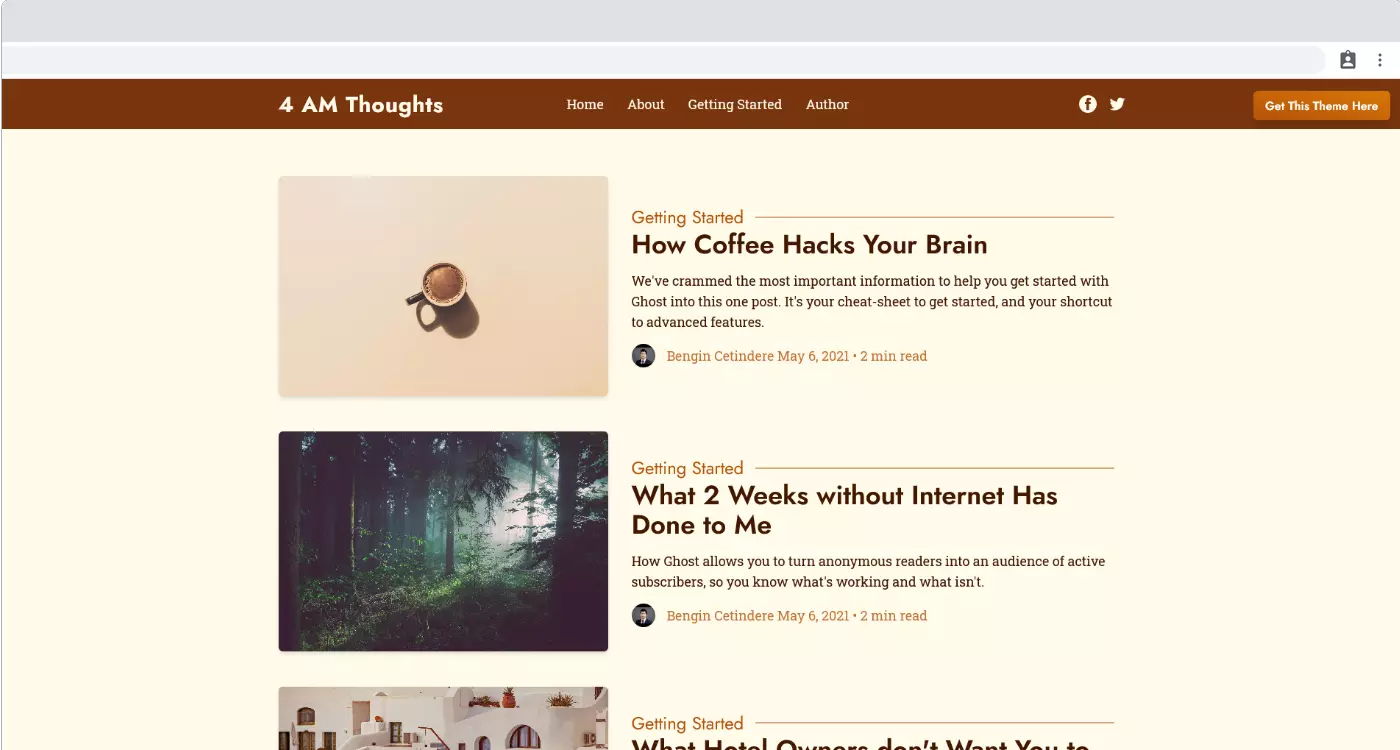
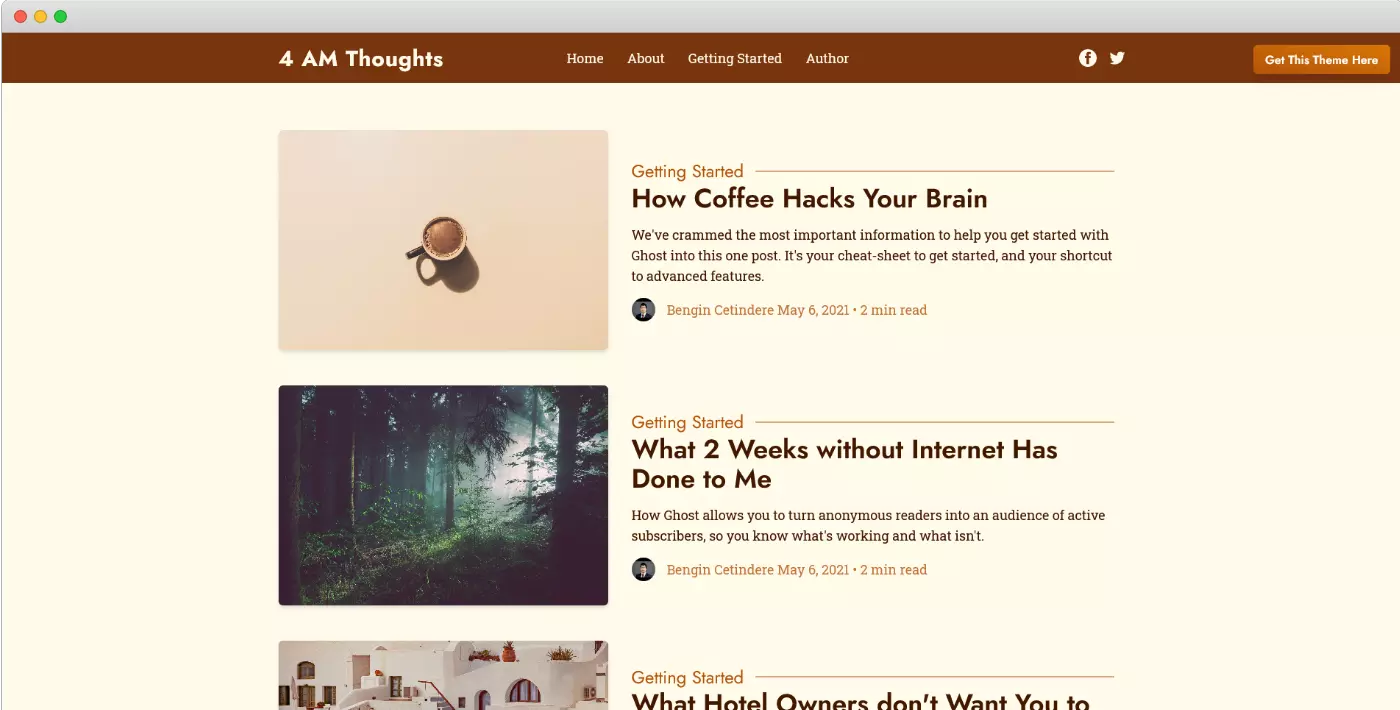
fix: fix font

Changed region(s): [[0.0, 0.0, 1.0, 0.8676], [0.1843, 0.8986, 0.7986, 1.0], [0.2764, 0.3099, 0.3686, 0.4648]]

diff --git a/styles/globals.css b/styles/globals.css
@@ -1,4 +1,4 @@
-@import url('https://fonts.googleapis.com/css2?family=IBM+Plex+Sans&display=swap');
+@import url('https://fonts.googleapis.com/css2?family=Inter:wght@400;700&display=swap');
 @import url('https://fonts.googleapis.com/css2?family=Roboto+Slab&display=swap');
 
 .shadow-png{

diff --git a/tailwind.config.js b/tailwind.config.js
@@ -35,7 +35,7 @@ module.exports = {
       }
     },
     fontFamily: {
-        sans: "IBM Plex Sans", 
+        sans: "Inter", 
         serif: "Roboto Slab"
     },
     colors:{
